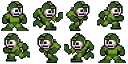
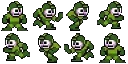
updated transparenty

diff --git a/punchykickgravityflipwarz/entity.py b/punchykickgravityflipwarz/entity.py
@@ -16,6 +16,7 @@ class Entity(pygame.sprite.Sprite):
 
     def add_sprite(self, sprite_id, sheet, rectangle):
         sprite = sheet.image_at(rectangle)
+        sprite.set_colorkey((0, 0, 0))
         self.sprites[sprite_id] = [sprite]
 
     def add_sprites(self, sprite_id, sheet, rectangle, amount, offset):
@@ -24,6 +25,7 @@ class Entity(pygame.sprite.Sprite):
             r = (rectangle[0]+offset[0]*i, rectangle[1]+offset[1]*i,rectangle[2],rectangle[3])
             logger.debug(r)
             sprite = sheet.image_at(r)
+            sprite.set_colorkey((0, 0, 0))
             sprites.append(sprite)
         self.sprites[sprite_id] = sprites
 
@@ -46,4 +48,4 @@ class Entity(pygame.sprite.Sprite):
             logger.debug(f"[{self.sprite_index}] but got [{len(self.images)}]")
             logger.exception(e)
             self.sprite_index = 0
-            self.animation_index = 0
+            self.animation_index = 00

diff --git a/punchykickgravityflipwarz/sprite_sheet.py b/punchykickgravityflipwarz/sprite_sheet.py
@@ -1,19 +1,16 @@
 import pygame
 
 class SpriteSheet(object):
-    def __init__(self, filename, colour_key=(255, 255, 255)):
+    def __init__(self, filename):
         self.sheet = None
         self.filename = filename
-        self.colour_key = colour_key    
         
     def image_at(self, rectangle):
         if self.sheet is None:
-            self.sheet = pygame.image.load(self.filename).convert()
-
+            self.sheet = pygame.image.load(self.filename).convert_alpha()
         rect = pygame.Rect(rectangle)
         image = pygame.Surface(rect.size).convert()
         image.blit(self.sheet, (0, 0), rect)
-        image.set_colorkey(self.colour_key, pygame.RLEACCEL)
         return image
 
     def images_at(self, rects):

diff --git a/punchykickgravityflipwarz/player.py b/punchykickgravityflipwarz/player.py
@@ -28,7 +28,7 @@ class Player(Entity):
         self.item_type = Grenades(self.game.world)
 
         # Setup the sprites/animation.
-        sheet = SpriteSheet(os.path.join('punchykickgravityflipwarz', 'resources', sprite_sheet_file_name), colour_key=(163, 73, 164))
+        sheet = SpriteSheet(os.path.join('punchykickgravityflipwarz', 'resources', sprite_sheet_file_name))
         super().add_sprite("stood_right", sheet, (0, 0, TILE_SIZE, TILE_SIZE))
         super().add_sprite("stood_left", sheet, (3*TILE_SIZE, TILE_SIZE, TILE_SIZE, TILE_SIZE))
         super().add_sprites("walking_right", sheet, (TILE_SIZE, 0, TILE_SIZE, TILE_SIZE), 3, (TILE_SIZE, 0))

diff --git a/punchykickgravityflipwarz/item.py b/punchykickgravityflipwarz/item.py
@@ -19,7 +19,7 @@ class Grenades(ItemType):
         self.name = "Grenades"
         self.item_size = 16
         self.grenades_sheet = SpriteSheet(os.path.join('punchykickgravityflipwarz', 'resources', "grenade.png"))
-        self.explosion_sheet = SpriteSheet(os.path.join('punchykickgravityflipwarz', 'resources', "explosion.png"), colour_key=(163, 73, 164))
+        self.explosion_sheet = SpriteSheet(os.path.join('punchykickgravityflipwarz', 'resources', "explosion.png"))
         self.max_time_out = 10
         self.time_out = 0
 

diff --git a/punchykickgravityflipwarz/world.py b/punchykickgravityflipwarz/world.py
@@ -42,8 +42,8 @@ class World:
             tile = Tile(x * TILE_SIZE, HEIGHT - 2 * TILE_SIZE)
             self.tiles.add(tile)
 
-        self.surface = Surface((WIDTH, HEIGHT))
-        self.surface.convert()
+        self.surface = Surface((WIDTH, HEIGHT)).convert()
+        self.surface.set_colorkey((0, 0, 0))
         self.tiles.draw(self.surface)
 
     def get_world(self, screen):
